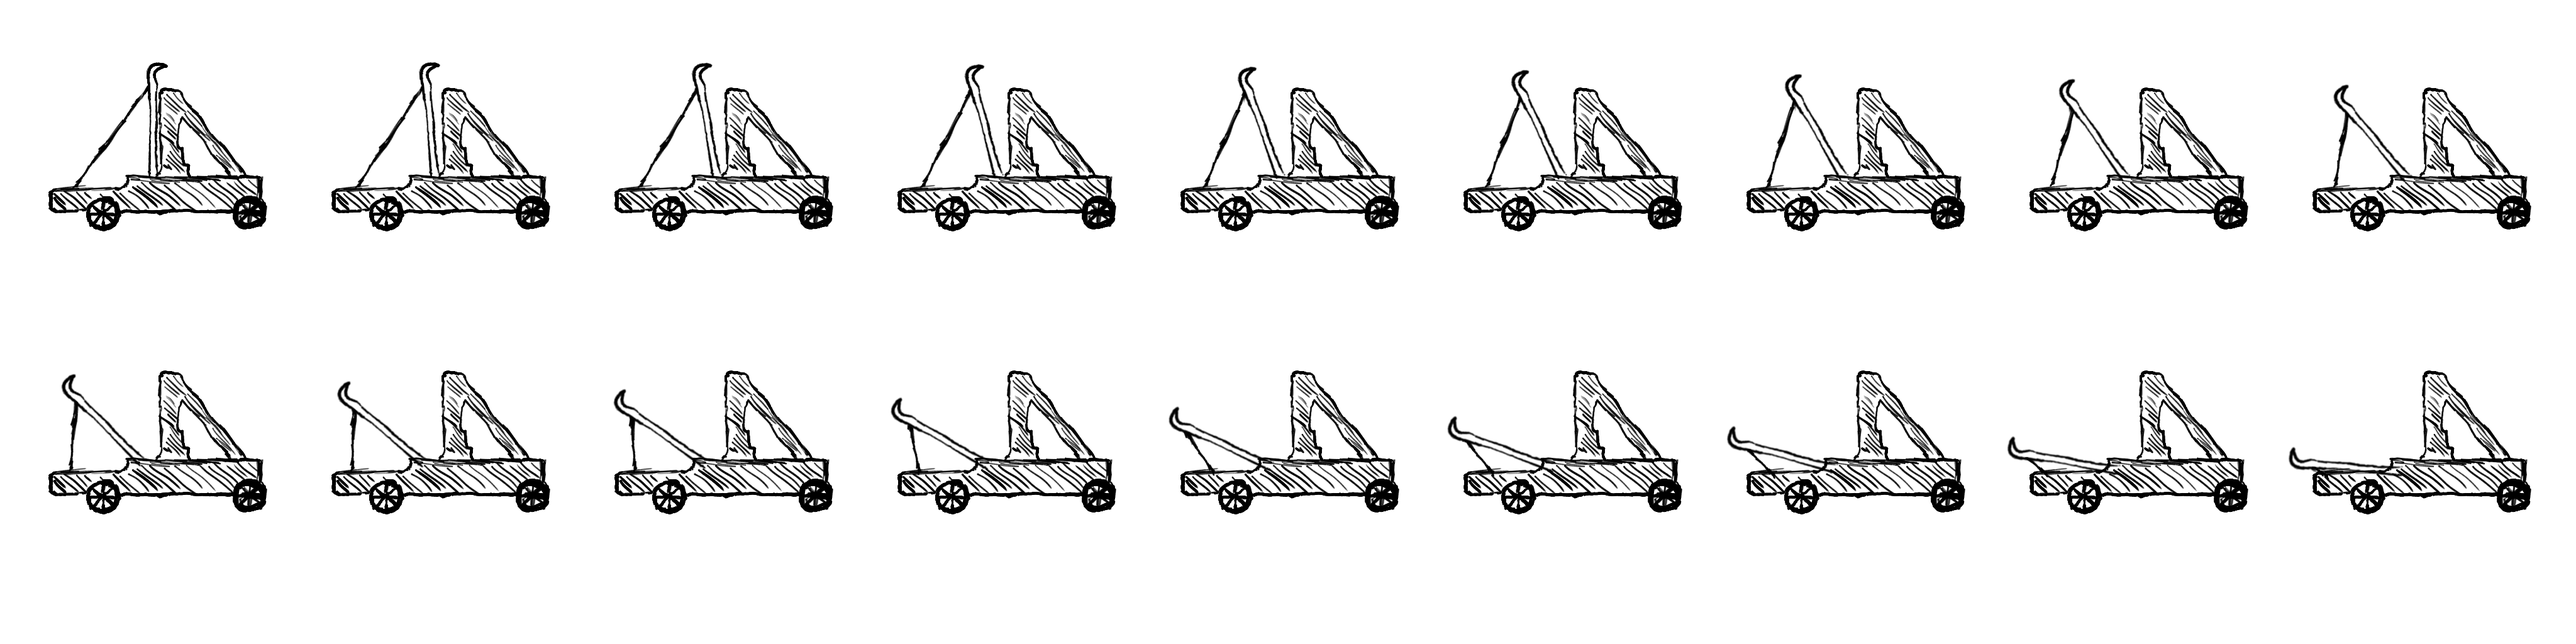
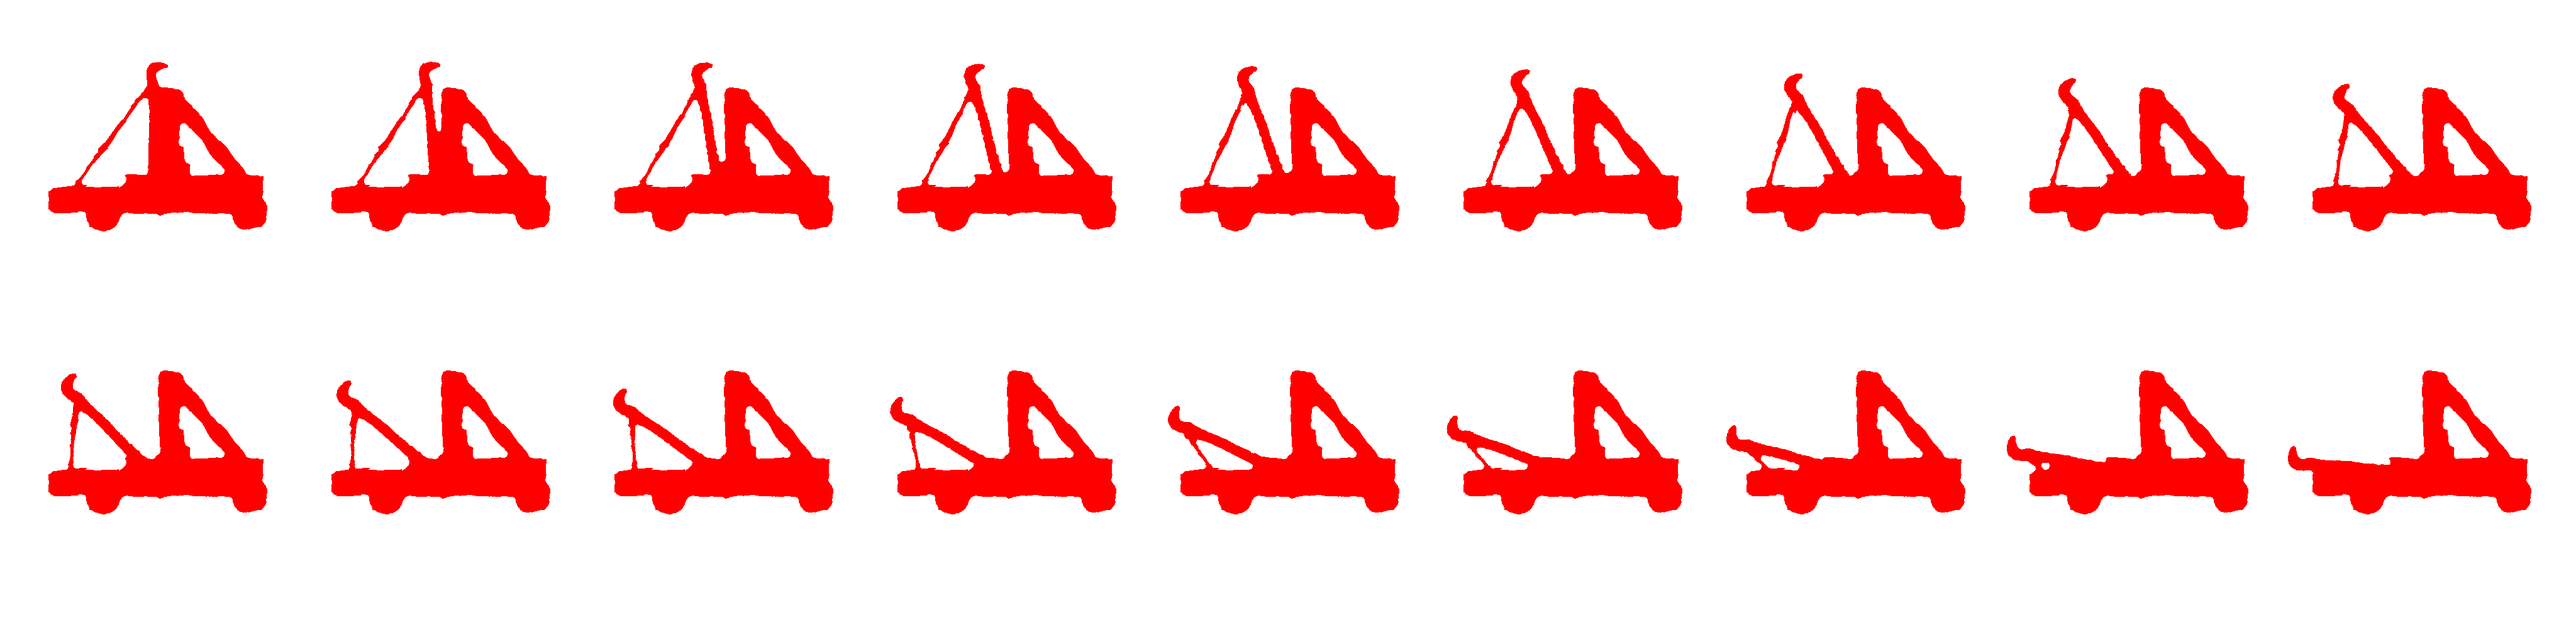
Working catapults
The catapults now work and will launch the ball. See facebook update for
temporary instructions on how to play with the invisible buttons.

Changed region(s): [[0.0, 0.0938, 1.0, 0.375], [0.0, 0.5625, 1.0, 0.8125], [0.0, 0.5938, 0.0312, 0.625]]

diff --git a/StrongDonut/src/no/ntnu/swa/a13/screens/GameScreen.java b/StrongDonut/src/no/ntnu/swa/a13/screens/GameScreen.java
@@ -28,6 +28,7 @@ import com.badlogic.gdx.physics.box2d.Body;
 import com.badlogic.gdx.physics.box2d.BodyDef;
 import com.badlogic.gdx.physics.box2d.ChainShape;
 import com.badlogic.gdx.physics.box2d.EdgeShape;
+import com.badlogic.gdx.physics.box2d.FixtureDef;
 import com.badlogic.gdx.physics.box2d.BodyDef.BodyType;
 import com.badlogic.gdx.physics.box2d.CircleShape;
 import com.badlogic.gdx.physics.box2d.PolygonShape;
@@ -43,6 +44,7 @@ public class GameScreen implements Screen {
 	World world;
 
 	MyGdxGame game;
+	
 
 	// The camera displays a given area across the entire screen.
 	private OrthographicCamera camera;
@@ -54,22 +56,28 @@ public class GameScreen implements Screen {
 
 	//Catapult textures
 	private Texture catapultTex;
-	private TextureRegion[] catapultRegion;
-	private Animation catapultAni;
-	private TextureRegion currentCataFrame;
+	private TextureRegion[] catapultRegion, catapult2Region;
+	private Animation catapult1Ani, catapult2Ani;
+	private TextureRegion currentCata1Frame, currentCata2Frame;
 	private float animationTimer;
+	private float animationDelta = 0.02f;
 	//numbers needed to get the right size catapults
 	private int catapultHeightPx = 273;
 	private int catapultWidthPx = 448;
 	private int catapultWidthIncrement = 450;
 	private int catapultMap1stRow = 95;
 	private int catapultMap2ndRow = 545;
+	private float catapultSize = 0.1f; //for scaling down the texture
+	private Vector2 catPos1, catPos2;
 	
 	private Landscape landscape;
 	private Vector2[] landVertices;
 	
 	
-	private Body ball, landBody;
+	private Body ball, landBody, catapult1, catapult2;
+	private Vector2 target, force;
+	private boolean ballExists = false;
+	private boolean ballBeingFired = false;
 
 	public GameScreen(MyGdxGame gameRef) {
 		game = gameRef;
@@ -83,26 +91,35 @@ public class GameScreen implements Screen {
 
 		catapultTex = new Texture(Gdx.files.internal("data/mangonel.png"));
 		catapultTex.setFilter(TextureFilter.Linear, TextureFilter.Linear);// not sure if filter is needed
+		
 		//The individual catapult images are 448px*448px There are 2 px of padding around each image
 		//see .txt file for detailed position of each image
 		//IN ADDITION!: 95 empty pixels above and 80 empty pixels below each image
 		catapultRegion = new TextureRegion[18];
+		catapult2Region = new TextureRegion[18];
 		for (int i = 0; i < 9; i++){
 			catapultRegion[i] = new TextureRegion(catapultTex, 2+i*catapultWidthIncrement, catapultMap1stRow, catapultWidthPx, catapultHeightPx);
+			catapult2Region[i] = new TextureRegion(catapultTex, 2+i*catapultWidthIncrement+catapultWidthPx, catapultMap1stRow, -catapultWidthPx, catapultHeightPx);
+//			catapult2Region[i].flip(true, false);
 		}
 		for (int i = 0; i < 9; i++){
 			catapultRegion[i+9] = new TextureRegion(catapultTex, 2+i*catapultWidthIncrement, catapultMap2ndRow, catapultWidthPx, catapultHeightPx);
+			catapult2Region[i+9] = new TextureRegion(catapultTex, 2+i*catapultWidthIncrement+catapultWidthPx, catapultMap2ndRow, -catapultWidthPx, catapultHeightPx);
+//			catapult2Region[i].flip(true, false);
 		}
-		catapultAni = new Animation(0.05f,catapultRegion);
+		catapult1Ani = new Animation(animationDelta,catapultRegion);
+		catapult2Ani = new Animation(animationDelta,catapult2Region);
 		animationTimer = 0;
-		currentCataFrame = catapultAni.getKeyFrame(animationTimer);
+		currentCata1Frame = catapult1Ani.getKeyFrame(animationTimer);
+		currentCata2Frame = catapult2Ani.getKeyFrame(animationTimer);
+		
 		
 		
 //		p1Region = new TextureRegion(catapultTex, 2, catapultMap1stRow, catapultWidthPx, catapultHeightPx);
 //		p2Region = new TextureRegion(p1Region);
 
 		//below: Vector holds x and y components of gravity
-		world = new World(new Vector2(0, -100), false); // FIXME what does this
+		world = new World(new Vector2(0, -10), false); // FIXME what does this
 														// mean
 
 		landscape = LandscapeFactory.makeLandscape(new SimonsStupidGenerator());
@@ -134,16 +151,43 @@ public class GameScreen implements Screen {
 		
 		
 		
-		bd.position.x = MyGdxGame.wR/2;
-		bd.position.y = MyGdxGame.hR/2;
+		
+		
+		//Making the physical part of the catapults
+		catPos1 = new Vector2(MyGdxGame.wR/8, MyGdxGame.hR);
+		catPos2 = new Vector2(MyGdxGame.wR*7/8, MyGdxGame.hR);
 		bd.type = BodyType.DynamicBody;
-		ball = world.createBody(bd);
-//		CircleShape ballShape = new CircleShape();
-//		ballShape.setRadius(15);
-//		ball.createFixture(ballShape, 100f);
-//		ballShape.dispose();
-		  
+		bd.position.x = catPos1.x;
+		bd.position.y =	catPos1.y;
+		bd.angularDamping = 15.0f;
+		catapult1 = world.createBody(bd);
+		bd.position.x = catPos2.x;
+		bd.position.y =	catPos2.y;
+		catapult2 = world.createBody(bd);
+		PolygonShape cataShape = new PolygonShape();
+		FixtureDef fd = new FixtureDef(); //this fixturedef is reused for the projectile "ball"
+		fd.friction = 10.0f;
+		fd.restitution = 0.2f;
+		fd.density = 1.0f;
+		float[] catBodArray = {0,0,catapultWidthPx*catapultSize,0,catapultWidthPx*catapultSize,catapultHeightPx*catapultSize,0,catapultHeightPx*catapultSize};
+		cataShape.set(catBodArray);
+		fd.shape = cataShape;
+		catapult1.createFixture(fd);
+		catapult2.createFixture(fd);
+		cataShape.dispose();
+		
+		
+		//The ball used for testing will be the new projectile instead
+		//makeBall(MyGdxGame.wR/2,MyGdxGame.hR);
+		
+		target = new Vector2(0,0);
+		force = new Vector2(0,0);
+
+		
+		
 	}
+	
+
 
 	@Override
 	public void render(float delta) {
@@ -159,25 +203,81 @@ public class GameScreen implements Screen {
 		for(Rectangle slice : landscape.getSlices()) {
 			renderer.rect(slice.x,slice.y,slice.width,slice.height);//names were changed for clarity, slice.y is always 0
 		}
-		
 		renderer.end();
-//		renderer.begin(ShapeType.Circle);
-//		renderer.setColor(Color.BLUE);
-//		renderer.circle(ball.getPosition().x, ball.getPosition().y, 15);
-//		renderer.end();
+		
+		if(ballExists){
+			
+			renderer.begin(ShapeType.FilledCircle);
+			renderer.setColor(Color.BLUE);
+			renderer.filledCircle(ball.getPosition().x, ball.getPosition().y, 5f, 25);
+			renderer.end();
+		}else{
+			renderer.begin(ShapeType.FilledCircle);
+			if(MyGdxGame.activePlayer==1){
+				renderer.setColor(Color.RED);
+			}else{
+				renderer.setColor(Color.BLACK);
+			}
+			renderer.filledCircle(target.x, target.y, 5f, 25);
+			renderer.end();
+		}
 		
 		batch.setProjectionMatrix(camera.combined);
+
+		if(ballBeingFired){
+			if(MyGdxGame.activePlayer==0){
+				currentCata1Frame = catapult1Ani.getKeyFrame(animationTimer+=delta,true);
+			}else{
+				currentCata2Frame = catapult2Ani.getKeyFrame(animationTimer+=delta,true);
+			}
+			if(animationTimer > 18*animationDelta){
+				ballBeingFired = false;
+				fireBall();
+			}
+		}
 		
+		//The catapult is now either red or black, red or invisible, no other colors work.		
 		batch.begin();
-		batch.setColor(Color.BLUE);
-		batch.draw(currentCataFrame, MyGdxGame.wR/6, landscape.getSlices().get((int)MyGdxGame.wR/6).height);
+//		batch.setColor(Color.CLEAR);
+		batch.setColor(Color.BLACK);
+		batch.draw(currentCata1Frame,catapult1.getPosition().x, catapult1.getPosition().y, 0, 0, catapultWidthPx, catapultHeightPx, catapultSize, catapultSize, (int)(catapult1.getAngle()*57.29578));
+//		batch.setColor(Color.CLEAR);
+		batch.setColor(Color.RED);
+		batch.draw(currentCata2Frame,catapult2.getPosition().x, catapult2.getPosition().y, 0, 0, catapultWidthPx, catapultHeightPx, catapultSize, catapultSize, (int)(catapult2.getAngle()*57.29578));
 		batch.end();
 
 		//FIXME wifikundace
-		if(Gdx.input.isTouched()){
+		//Because there is little time left and the game should be playable, a lot of modifiability is sacrificed right here:
+		if(Gdx.input.justTouched()/*isTouched()*/){
 			
-			animationTimer += delta;
-			currentCataFrame = catapultAni.getKeyFrame(animationTimer, true);
+			Vector3 touchPos = new Vector3();
+			touchPos.set(Gdx.input.getX(), MyGdxGame.hR-Gdx.input.getY(), 0);
+//			camera.unproject(touchPos);
+			
+			if(touchPos.y > MyGdxGame.hR*7/8 && (touchPos.x < MyGdxGame.wR/8 || touchPos.x > MyGdxGame.wR*7/8)){
+				if(touchPos.x < MyGdxGame.wR/8){
+					game.setScreen(MyGdxGame.mainMenuScreen);
+				}
+				if(touchPos.x > MyGdxGame.wR*7/8){
+					animationTimer = 0;
+					MyGdxGame.players[0].setCoordinates(catapult1.getPosition());
+					MyGdxGame.players[1].setCoordinates(catapult2.getPosition());
+					ballBeingFired = true;
+//					fireBall();
+				}
+			}else{
+				System.out.println(""+touchPos.x+", "+touchPos.y);
+				MyGdxGame.players[0].setCoordinates(catapult1.getPosition());
+				MyGdxGame.players[1].setCoordinates(catapult2.getPosition());
+				setTarget(touchPos.x, touchPos.y);
+			}
+			
+			
+			//KEEP THE FOLLOWING CODE UNTIL IT'S IMPLEMENTED ELSEWHERE!!
+			
+//			animationTimer += delta;
+//			currentCata1Frame = catapult1Ani.getKeyFrame(animationTimer, true);
+//			currentCata2Frame = catapult2Ani.getKeyFrame(animationTimer, true);
 			
 			
 //			landscape.deform(new Vector2(Gdx.input.getX(),HEIGHT-Gdx.input.getY()), 50);
@@ -193,8 +293,59 @@ public class GameScreen implements Screen {
 //			landBody.destroyFixture(landBody.getFixtureList().get(1)); //the fixture at 0 is the floor
 		}
 		
+		
+		
 		world.step(delta, 6, 2);//put a fraction in place of delta for a fixed framerate
 
+	}
+	
+	private void setTarget(float posX, float posY){
+		if(ballExists){
+			world.destroyBody(ball);
+			ballExists = false;
+		}
+		this.target.x = posX;
+		this.target.y = posY;
+		setForce();
+	}
+	private void setForce(){
+		this.force.x = Math.abs(target.x-MyGdxGame.players[MyGdxGame.activePlayer].getCoordinates().x)*100;
+		this.force.y = Math.abs(target.y-MyGdxGame.players[MyGdxGame.activePlayer].getCoordinates().y)*100;
+	}
+	private void fireBall(){
+		if(ballExists){
+			world.destroyBody(ball);
+			ballExists = false;
+		}
+		
+		makeBall(MyGdxGame.players[MyGdxGame.activePlayer].getCoordinates().x+catapultWidthPx*catapultSize/2,MyGdxGame.players[MyGdxGame.activePlayer].getCoordinates().y+catapultHeightPx*catapultSize);
+		
+		if(MyGdxGame.activePlayer==0){
+			ball.applyForce(force,ball.getWorldCenter());
+			MyGdxGame.activePlayer=1;
+		}else{
+			ball.applyForce(-force.x,force.y,ball.getWorldCenter().x,ball.getWorldCenter().y);
+			MyGdxGame.activePlayer=0;
+		}
+		
+	}
+	
+	private void makeBall(float posX, float posY){
+		BodyDef bd = new BodyDef();
+		bd.position.x = posX;
+		bd.position.y = posY;
+		FixtureDef fd = new FixtureDef();
+		bd.type = BodyType.DynamicBody;
+		ball = world.createBody(bd);
+		CircleShape ballShape = new CircleShape();
+		ballShape.setRadius(5);
+		fd.shape = ballShape;
+		fd.friction = 1.0f;
+		fd.restitution = 0.0f;
+		fd.density = 0.1f;
+		ball.createFixture(fd);
+		ballShape.dispose();
+		ballExists = true;
 	}
 
 	@Override

diff --git a/StrongDonut/src/no/ntnu/swa/a13/MyGdxGame.java b/StrongDonut/src/no/ntnu/swa/a13/MyGdxGame.java
@@ -5,6 +5,7 @@ import no.ntnu.swa.a13.screens.*;
 import com.badlogic.gdx.Game;
 import com.badlogic.gdx.Gdx;
 import com.badlogic.gdx.math.Matrix4;
+import com.badlogic.gdx.math.Vector2;
 //import com.badlogic.gdx.Gdx;
 //import com.badlogic.gdx.graphics.GL10;
 //import com.badlogic.gdx.graphics.OrthographicCamera;
@@ -39,6 +40,11 @@ public class MyGdxGame extends Game {
 	public static float h;
 	
 	
+//A game needs players!
+	public static Player[] players;
+//Late development turn monitoring variable
+	public static int activePlayer = 0;
+	
 	
 //Because it is easier to make and move code than the other way around
 //it might look a bit nasty here for a while - Sindre
@@ -57,6 +63,11 @@ public class MyGdxGame extends Game {
 		//This matrix is needed to render smaller objects without losing details
 		scalingMatrix = new Matrix4();
 		scalingMatrix.setToScaling(b2dScale, b2dScale, 1);
+		
+		//Making players
+		players = new Player[2];
+		players[0] = new Player(1, new Vector2(0,0));
+		players[1] = new Player(2, new Vector2(0,0));
 		
 		
 	//Screens made after the other parts of the game have been created, this is important

diff --git a/StrongDonut/src/no/ntnu/swa/a13/screens/OptionsScreen.java b/StrongDonut/src/no/ntnu/swa/a13/screens/OptionsScreen.java
@@ -62,7 +62,7 @@ public class OptionsScreen implements Screen {// A the game class, it will hold 
 		
 		batch.end();
 		
-		if(Gdx.input.isTouched()){
+		if(Gdx.input.justTouched()){
 			Vector3 touchPos = new Vector3();
 			touchPos.set(Gdx.input.getX(),Gdx.input.getY(), 0);
 //			camera.unproject(touchPos);

diff --git a/StrongDonut/src/no/ntnu/swa/a13/screens/MainMenuScreen.java b/StrongDonut/src/no/ntnu/swa/a13/screens/MainMenuScreen.java
@@ -62,7 +62,7 @@ public class MainMenuScreen implements Screen {
 		
 		batch.end();
 		
-		if(Gdx.input.isTouched()){
+		if(Gdx.input.justTouched()){
 			Vector3 touchPos = new Vector3();
 			touchPos.set(Gdx.input.getX(),Gdx.input.getY(), 0);
 //			camera.unproject(touchPos);

diff --git a/StrongDonut/src/no/ntnu/swa/a13/Player.java b/StrongDonut/src/no/ntnu/swa/a13/Player.java
@@ -73,4 +73,7 @@ public class Player {
 	public void setAngle(float angle) {
 		this.angle = angle;
 	}
+	public void setCoordinates(Vector2 coordinates){
+		this.coordinates = coordinates;
+	}
 }
